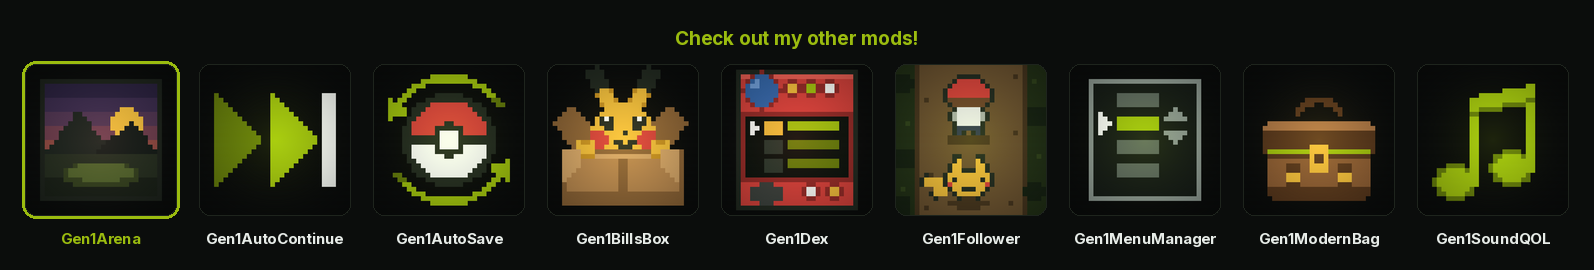
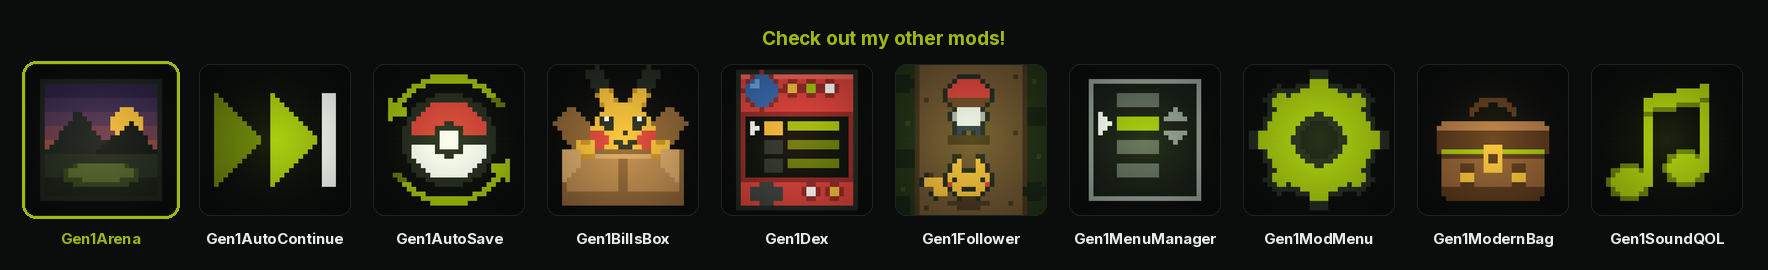
Add Gen1ModMenu to the index
The mod redraws the in-game MODS screen: a sortable, filterable mod list, and
a per-mod OPTIONS page that fits eleven rows with their values and a help
line where vanilla fits four bordered boxes.

The icon is a cog, drawn as make_icons.py wants it -- eight trapezoid teeth
rather than eight discs, because a rounded tooth reads as a flower at the
54px the card actually shows. A spikier variant with longer, narrower teeth
was tried first and read as a star next to Gen1MenuManager's panel, so the
teeth stayed broad.

Every lineup strip is regenerated, not just this mod's: the family gained a
tile, so all ten of them changed. site/data/index.json is deliberately not in
this commit -- it is a pure function of mods/ plus each mod's Releases, and
index.yml rebuilds it on this push with a token that can actually read them.

Claude-Session: https://claude.ai/code/session_011eiUmK5Mk3qnufrvRYicP9

Changed region(s): [[0.0, 0.2074, 0.9837, 0.8296], [0.0307, 0.8593, 0.9837, 0.9185], [0.3996, 0.1185, 0.5841, 0.1778]]

diff --git a/tools/make_icons.py b/tools/make_icons.py
@@ -462,6 +462,35 @@ def dex():
     return a, RED
 
 
+def mod_menu():
+    """A cog: the settings screen this mod redraws."""
+    a = Art()
+    cx = cy = 16.0
+
+    # Eight trapezoid teeth rather than eight discs -- a rounded tooth reads
+    # as a flower at 54px, which is the size the index card actually shows.
+    # Drawn twice, INK a shade proud of GREEN, so the cog keeps the same
+    # outline every other icon here has.
+    def teeth(root, tip, half_root, half_tip, colour):
+        for i in range(8):
+            a0 = i * 45
+            a.poly([polar(cx, cy, a0 - half_root, root),
+                    polar(cx, cy, a0 - half_tip, tip),
+                    polar(cx, cy, a0 + half_tip, tip),
+                    polar(cx, cy, a0 + half_root, root)], colour)
+
+    teeth(10.0, 14.8, 14, 9.5, INK)
+    a.disc(cx, cy, 12.7, INK)
+    teeth(9.5, 13.4, 11.5, 7.0, GREEN)
+    a.disc(cx, cy, 11.4, GREEN)
+
+    # the bore, dark rather than empty, so the cog stays legible on the dark
+    # card as well as on the lighter strip
+    a.disc(cx, cy, 5.6, INK)
+    a.disc(cx, cy, 4.2, PANEL)
+    return a, GREEN
+
+
 ICONS = {
     "gen1autosave": autosave,
     "gen1_auto_continue": auto_continue,
@@ -472,6 +501,7 @@ ICONS = {
     "Gen1BillsBox": bills_box,
     "gen1_sound_qol": sound_qol,
     "Gen1Dex": dex,
+    "gen1_mod_menu": mod_menu,
 }
 
 

diff --git a/mods/Wild@gen1_mod_menu/description.md b/mods/Wild@gen1_mod_menu/description.md
@@ -1,0 +1,98 @@
+# Gen1ModMenu
+
+The in-game **MODS** screen, redrawn. The mod list gets a status column,
+sorting and filters; the per-mod **OPTIONS** page gets eleven rows on screen
+instead of four, each with its value beside it and a line underneath saying
+what it accepts.
+
+Nothing about how the manager *behaves* changes. Enabling and disabling,
+dependency closures, staged changes, apply-and-restart, profiles and safe
+mode are all still the engine's — this mod draws them.
+
+## The options page
+
+Vanilla renders it through the engine's shared option widget: four bordered
+20×4 boxes, the label on one line and the value on the next, four options
+visible at a time. A mod with seven rows is two pages, and there is no room
+to say what any of them do.
+
+Here every option is one line — label left, value right — so eleven fit,
+under the mod's name and version. Below them, a help line for whichever row
+the cursor is on, read straight off the schema.
+
+| Row type | Help line |
+| --- | --- |
+| toggle | `ON / OFF` |
+| choice | every choice label, `ONCE / N BEEPS / VANILLA` |
+| number | the range, `1-8`, and the step when it is not 1 |
+| text | `UP TO 12 CHARS` |
+
+A `.` beside a value marks a row that differs from the default its author
+shipped, and **RESET DEFAULTS** at the bottom puts every one of them back.
+
+There is no description field in the engine's option schema, so the help line
+says what the row *accepts* rather than inventing prose the author never
+wrote.
+
+## The mod list
+
+| Column | Reads |
+| --- | --- |
+| `ON` | enabled and running |
+| `OFF` | disabled |
+| `STGD` | changed, waiting on a restart |
+| `ERR` | failed to load |
+| `BLKD` | a dependency is not satisfied |
+| `SKIP` | enabled and fine, but not for this game |
+
+The same six appear as a legend on the `ERRORS` tab whenever there is nothing
+wrong to show there, and the full word is always one A-press away on the
+mod's own detail screen.
+
+## Options
+
+| Option | Default | Notes |
+| --- | --- | --- |
+| `PRESENTATION` | `MODERN` | `VANILLA` hands every screen back to the engine's own renderer. Read every frame, so it lands without leaving the screen. |
+| `SORT BY` | `CATEGORY` | Or `NAME`, `ENABLED`, or `PROBLEMS` — which floats errored and blocked mods to the top. |
+| `HIDE OFF` | off | Drop disabled mods from the list. |
+| `ONLY W/OPTIONS` | off | Show only the mods that have something to configure. |
+| `HELP LINE` | on | Off gives its row back to the list, making it twelve. |
+| `RESET ROW` | on | Show `RESET DEFAULTS` on each mod's options page. |
+| `KEEP CURSOR` | on | Reopen the manager on the row you left it on. |
+
+Neither filter can hide Gen1ModMenu itself — both are set from its own
+options page, and that page is reached through the list they filter.
+
+## Two things it fixes
+
+- **The options page on Gold.** The engine draws it through a module its own
+  loader lists as Gen 1 only, which "paints Red's chrome over Gold's options
+  screen, whose layout is one 18×16 box rather than four 20×4 ones". Drawing
+  the rows here makes the page right on Gold as well.
+- **A detail screen that ran off the bottom.** Vanilla starts the action rows
+  at tile 11 and draws one per line, so a mod carrying all nine of them puts
+  its last row at tile 19 of an 18-tile screen. The rows are pinned to the
+  bottom here and the description takes what is left.
+
+## Getting out of the way
+
+This is the one screen a player uses to switch off a mod that is
+misbehaving, so there are three independent ways back to the vanilla one:
+`PRESENTATION: VANILLA`; a renderer that throws, which is logged once and
+demoted to the engine's own draw for the rest of the visit; and the engine's
+own screen builder, which falls back to its builtin manager if this mod's
+screen cannot be constructed at all.
+
+## Compatibility
+
+- **Link play** — `affects_link: false`. This only draws a menu.
+- **Gen 2** — works, and fixes the options page there.
+- **Your saves** — nothing is stored in them. The mod's own settings are
+  option rows, which is what lets them work on the title screen too, before a
+  playthrough has been adopted.
+
+Requests `engine_internals`, because replacing the manager's drawing means
+reaching the engine's own manager module by name to keep its logic. Nothing
+is patched in place: the substitutions land on one screen instance, built
+fresh each time it is opened. Contains no ROM-derived content.

diff --git a/README.md b/README.md
@@ -8,7 +8,7 @@
 </p>
 
 <p align="center">
-  <a href="https://wild1walker.github.io/Gen1Wild/"><img src="site/banners/lineup.png" alt="Gen1Arena, Gen1AutoContinue, Gen1AutoSave, Gen1BillsBox, Gen1Dex, Gen1Follower, Gen1MenuManager, Gen1ModernBag and Gen1SoundQOL" width="920"></a>
+  <a href="https://wild1walker.github.io/Gen1Wild/"><img src="site/banners/lineup.png" alt="Gen1Arena, Gen1AutoContinue, Gen1AutoSave, Gen1BillsBox, Gen1Dex, Gen1Follower, Gen1MenuManager, Gen1ModMenu, Gen1ModernBag and Gen1SoundQOL" width="920"></a>
 </p>
 
 ## What is in the index
@@ -22,6 +22,7 @@
 | <img src="mods/Wild@Gen1Dex/thumbnail.png" width="54" alt=""> | **[Gen1Dex](https://github.com/wild1walker/Gen1Dex)** | The Pokédex with a POKéMON beside every entry: the party icon left of each row, a black silhouette until you have seen that species, and base stats, evolutions and the full movelist behind it. |
 | <img src="mods/Wild@Gen1Follower/thumbnail.png" width="54" alt=""> | **[Gen1Follower](https://github.com/wild1walker/Gen1Follower)** | All 251 Gen 1 and Gen 2 overworld followers, with Pokédex-proportional sizing and voxel support. Built from the PokéPC Followers work by Antigravity & gamecorner33. |
 | <img src="mods/Wild@Gen1MenuManager/thumbnail.png" width="54" alt=""> | **[Gen1MenuManager](https://github.com/wild1walker/Gen1MenuManager)** | Rearrange the START menu and the Pokémon Center PC menu: reorder rows, hide the ones you never touch, and pin field items and moves to rows of their own. |
+| <img src="mods/Wild@gen1_mod_menu/thumbnail.png" width="54" alt=""> | **[Gen1ModMenu](https://github.com/wild1walker/Gen1ModMenu)** | The mod manager, redrawn: a sortable, filterable mod list, and a per-mod OPTIONS page that fits eleven rows with their values and a help line instead of four bare boxes. |
 | <img src="mods/Wild@gen1_modern_bag/thumbnail.png" width="54" alt=""> | **[Gen1ModernBag](https://github.com/wild1walker/Gen1ModernBag)** | Seven inventory pockets with auto-sorting, Favorites, pinned items, quick search, TM/HM tools and no capacity limit. Derived from FAFF0x's Modern Bag. |
 | <img src="mods/Wild@gen1_sound_qol/thumbnail.png" width="54" alt=""> | **[Gen1SoundQOL](https://github.com/wild1walker/Gen1SoundQOL)** | The low-HP battle siren beeps once instead of looping forever, and on mobile the game mutes itself when another app takes the audio. |
 
